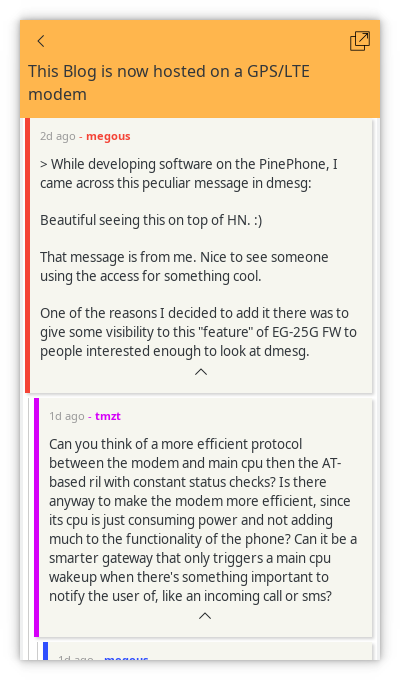
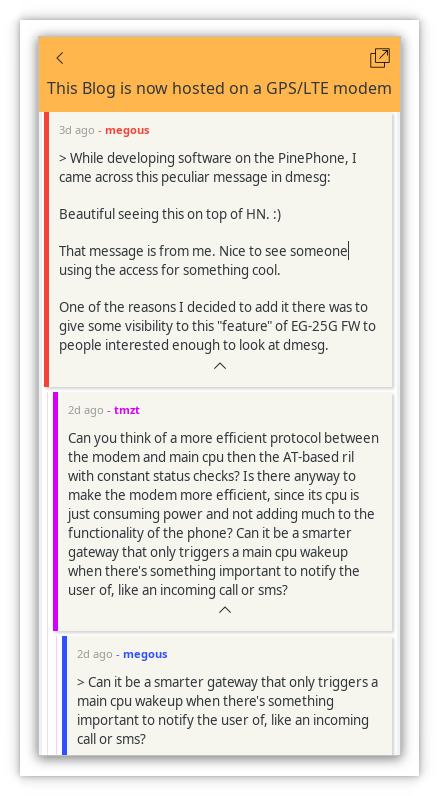
make thread-depth indicators match color of parent

diff --git a/src/hn/css/style.css b/src/hn/css/style.css
@@ -1,3 +1,12 @@
+@define-color nested_0 #f44336;
+@define-color nested_1 #d500f9;
+@define-color nested_2 #304ffe;
+@define-color nested_3 #0288d1;
+@define-color nested_4 #26A69A;
+@define-color nested_5 #00c853;
+@define-color nested_6 #fff3e0;
+@define-color nested_7 #8d6e63;
+
 .news-item {
 	padding: 5px;
 	margin-bottom: 2px;
@@ -22,22 +31,32 @@
 }
 
 .comment-item-time_user { margin-bottom: 10px; }
-.comment-item-nested-0 .comment-item-body { border-left-color: #f44336 }
-.comment-item-nested-1 .comment-item-body { border-left-color: #d500f9 }
-.comment-item-nested-2 .comment-item-body { border-left-color: #304ffe }
-.comment-item-nested-3 .comment-item-body { border-left-color: #0288d1 }
-.comment-item-nested-4 .comment-item-body { border-left-color: #26A69A }
-.comment-item-nested-5 .comment-item-body { border-left-color: #00c853 }
-.comment-item-nested-6 .comment-item-body { border-left-color: #fff3e0 }
-.comment-item-nested-7 .comment-item-body { border-left-color: #8d6e63 }
-.comment-item-nested-0 .comment-item-time_user { color: #f44336 }
-.comment-item-nested-1 .comment-item-time_user { color: #d500f9 }
-.comment-item-nested-2 .comment-item-time_user { color: #304ffe }
-.comment-item-nested-3 .comment-item-time_user { color: #0288d1 }
-.comment-item-nested-4 .comment-item-time_user { color: #26A69A }
-.comment-item-nested-5 .comment-item-time_user { color: #00c853 }
-.comment-item-nested-6 .comment-item-time_user { color: #fff3e0 }
-.comment-item-nested-7 .comment-item-time_user { color: #8d6e63 }
+.comment-item-nested-0 .comment-item-body { border-left-color: @nested_0}
+.comment-item-nested-1 .comment-item-body { border-left-color: @nested_1}
+.comment-item-nested-2 .comment-item-body { border-left-color: @nested_2}
+.comment-item-nested-3 .comment-item-body { border-left-color: @nested_3}
+.comment-item-nested-4 .comment-item-body { border-left-color: @nested_4}
+.comment-item-nested-5 .comment-item-body { border-left-color: @nested_5}
+.comment-item-nested-6 .comment-item-body { border-left-color: @nested_6}
+.comment-item-nested-7 .comment-item-body { border-left-color: @nested_7}
+
+.comment-item-nested-0 .comment-item-time_user { color: @nested_0 }
+.comment-item-nested-1 .comment-item-time_user { color: @nested_1 }
+.comment-item-nested-2 .comment-item-time_user { color: @nested_2 }
+.comment-item-nested-3 .comment-item-time_user { color: @nested_3 }
+.comment-item-nested-4 .comment-item-time_user { color: @nested_4 }
+.comment-item-nested-5 .comment-item-time_user { color: @nested_5 }
+.comment-item-nested-6 .comment-item-time_user { color: @nested_6 }
+.comment-item-nested-7 .comment-item-time_user { color: @nested_7 }
+
+.comment-item-nested-0 .comment-replies {border-left-color: alpha(@nested_0, 0.2)}
+.comment-item-nested-1 .comment-replies {border-left-color: alpha(@nested_1, 0.2)}
+.comment-item-nested-2 .comment-replies {border-left-color: alpha(@nested_2, 0.2)}
+.comment-item-nested-3 .comment-replies {border-left-color: alpha(@nested_3, 0.2)}
+.comment-item-nested-4 .comment-replies {border-left-color: alpha(@nested_4, 0.2)}
+.comment-item-nested-5 .comment-replies {border-left-color: alpha(@nested_5, 0.2)}
+.comment-item-nested-6 .comment-replies {border-left-color: alpha(@nested_6, 0.2)}
+.comment-item-nested-7 .comment-replies {border-left-color: alpha(@nested_7, 0.2)}
 
 .comment-item-toggle {
 	padding: 3px;
